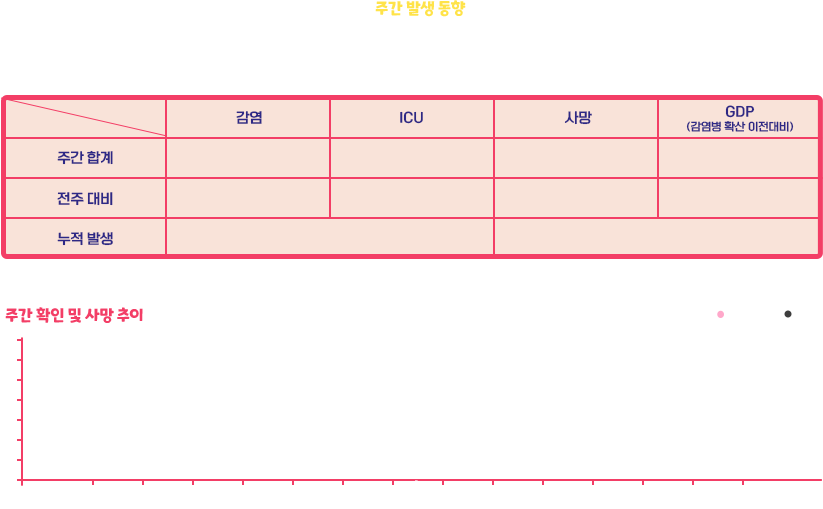
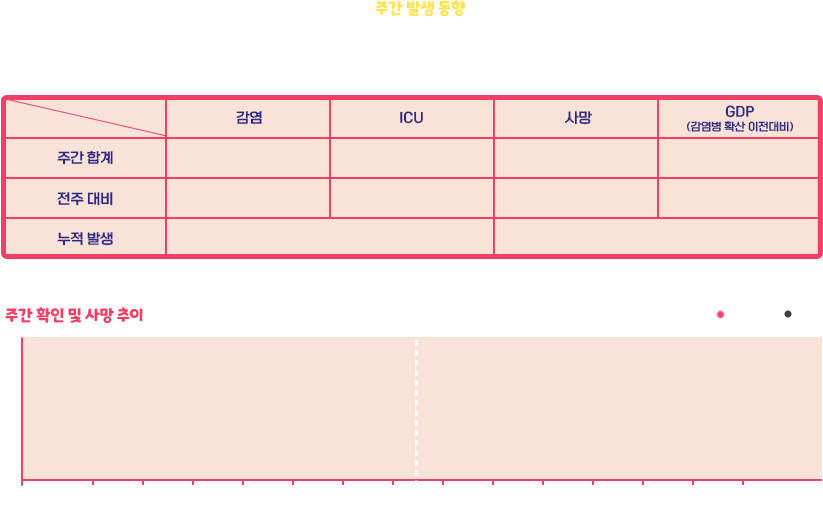
2022.02.23.03

Changed region(s): [[0.0, 0.6483, 1.0, 0.943]]

diff --git a/ko-kr-beta/covid_game.html b/ko-kr-beta/covid_game.html
@@ -1,5 +1,5 @@
 <!DOCTYPE html>
-<!--ver.2022.02.23.02-->
+<!--ver.2022.02.23.03-->
 <html lang="ko">
 <!--🥕-->
 <link rel="shortcut icon" href="favicon.ico">
@@ -105,8 +105,8 @@
                             <td class="weekly warning GDPs" data-value="0"></td>
                         </tr>
                     </table>
-                    <div class="weekly infectious"><output class="weekly infectious" age="90">0</output>명</div>
-                    <div class="weekly death"><output class="weekly death" age="90">0</output>명</div>
+                    <div class="weekly infectious">누적 확진자 <output class="weekly infectious" age="90">0</output>명</div>
+                    <div class="weekly death">누적 사망자 <output class="weekly death" age="90">0</output>명</div>
                 </div> <br>
                 <div class="weekly_chart">
                     <div class="weekly_board">
@@ -187,12 +187,12 @@
                         <input class="policy rate" type="range" max="0.90" min="0.5" step="0.2" value="0.5" onchange="toggle_week();">
                         <input class="policy bed" type="range" min="10" max="30" step="2" value="10" onchange="toggle_week();">
                         <svg class="weekly area lines">
-                            <line class="weekly border visible" x1="0" y1="122.5" x2="290" y2="122.5"/>
-                            <line class="weekly border visible" x1="145" y1="0" x2="145" y2="245"/>
-                            <line class="weekly border invisible left" data-click="0" x1="0" y1="122.5" x2="140" y2="122.5" onclick="this.dataset.click = (this.dataset.click === '0' ? '1' : '0'); toggle_week();"/>
-                            <line class="weekly border invisible right" data-click="0" x1="150" y1="122.5" x2="290" y2="122.5" onclick="this.dataset.click = (this.dataset.click === '0' ? '1' : '0'); toggle_week();"/>
-                            <line class="weekly border invisible upper" data-click="0" x1="145" y1="0" x2="145" y2="117.5" onclick="this.dataset.click = (this.dataset.click === '0' ? '1' : '0'); toggle_week();"/>
-                            <line class="weekly border invisible lower" data-click="0" x1="145" y1="127.5" x2="145" y2="245" onclick="this.dataset.click = (this.dataset.click === '0' ? '1' : '0'); toggle_week();"/>
+                            <line class="weekly border visible" x1="0" y1="125" x2="292" y2="125"/>
+                            <line class="weekly border visible" x1="146" y1="0" x2="146" y2="245"/>
+                            <line class="weekly border invisible left" data-click="0" x1="0" y1="123" x2="146" y2="123" onclick="this.dataset.click = (this.dataset.click === '0' ? '1' : '0'); toggle_week();"/>
+                            <line class="weekly border invisible right" data-click="0" x1="146" y1="123" x2="292" y2="123" onclick="this.dataset.click = (this.dataset.click === '0' ? '1' : '0'); toggle_week();"/>
+                            <line class="weekly border invisible upper" data-click="0" x1="149" y1="0" x2="149" y2="125" onclick="this.dataset.click = (this.dataset.click === '0' ? '1' : '0'); toggle_week();"/>
+                            <line class="weekly border invisible lower" data-click="0" x1="149" y1="125" x2="149" y2="248" onclick="this.dataset.click = (this.dataset.click === '0' ? '1' : '0'); toggle_week();"/>
                         </svg>
                         <div class="weekly area budget"><output class="weekly budget_next">0</output></div>
                     </div>

diff --git a/ko-kr-beta/css/style_game.css b/ko-kr-beta/css/style_game.css
@@ -645,6 +645,7 @@ div.weekly_status div.weekly.date {
 }
 
 div.weekly_status table {
+    color: #2e2886;
     position: absolute;
     text-align: center;
     top: 76px;
@@ -678,6 +679,7 @@ td.weekly.warning[data-value="2"] {
 }
 
 div.weekly_status p {
+    color: #2e2886;
     font-size: 100%;
     position: absolute;
     top: 140px;
@@ -691,11 +693,21 @@ div.weekly_board {
     height: 185px;
 }
 
-div.weekly_board > svg > g > g.xAxis, g.yAxis {
+div.weekly_board > svg > g > g.xAxis {
     visibility: hidden;
 }
+
+div.weekly_board > svg > g > g.yAxis text {
+    color: white;
+    font-family: ONEMobilePOPRegular, sans-serif;
+}
+
+div.weekly_board > svg > g > g.yAxis line {
+    color: #f33e66;
+}
+
 div.weekly.infectious {
-    color: black;
+    color: #2e2886;
     position: absolute;
     top: 164px;
     right: 420px;
@@ -703,7 +715,7 @@ div.weekly.infectious {
     text-align: center;
 }
 div.weekly.death {
-    color: black;
+    color: #2e2886;
     position: absolute;
     top: 164px;
     right: 90px;
@@ -731,6 +743,8 @@ div.policy.level.confirm input {
     height: 24px;
     background: none;
     text-align: center;
+    font-family: ONEMobilePOPRegular, sans-serif;
+    color: #2e2886;
     border: 1px solid rgba(0,0,0,0);
 }
 div.policy.level.confirm input:hover {
@@ -740,10 +754,10 @@ div.policy.level.confirm input:hover {
 div.area_policy, svg.area_policy.area_board {
     position: absolute;
     display: inline-block;
-    width: 294px;
-    height: 185px;
-    left: 640px;
-    top: 210px;
+    width: 293px;
+    height: 179px;
+    left: 641px;
+    top: 213px;
 }
 select.area_policy.option {
     font-size: 120%;
@@ -819,9 +833,8 @@ div.weekly.budget.update p {
 }
 svg.weekly.area.lines {
     position: absolute;
-    border: 1px solid white;
-    width: 290px;
-    height: 245px;
+    width: 294px;
+    height: 250px;
     left: 640px;
     top: 0;
     transform: translateY(-20px);

diff --git a/ko-kr-beta/main_game.js b/ko-kr-beta/main_game.js
@@ -898,7 +898,7 @@ function weekly_report() {
     } else if (weekly_change_death < 0) {
         $("#weekly_change_death").val("▼" + Math.abs(weekly_change_death)).css("color","blue");
     } else {
-        $("#weekly_change_death").val("▲" + weekly_change_death).css("color","black");
+        $("#weekly_change_death").val(weekly_change_death).css("color","#2e2886;");
     }
 
 
@@ -969,13 +969,13 @@ function weekly_report() {
     let board_svg = board.append("svg")
         .attr("width", "100%")
         .attr("height", "100%");
-    let board_svg_size = board_svg.node().getBoundingClientRect();
+    let board_svg_size = {'height': 185, 'width': 790};
 
     let data_stacked = d3.stack().keys(["I1","R2"])(daily_IR);
 
     let xScale = d3.scaleBand()
         .domain([1,2,3,4,5,6,7,8,9,10,11,12,13,14])
-        .range([30, board_svg_size.width - 290]).padding(0.7);
+        .range([30, board_svg_size.width - 25]).padding(0.7);
     let yScale = d3.scaleLinear()
         .domain([0, d3.max(d3.max(data_stacked), e => d3.max(e)) + 1])
         .range([board_svg_size.height - 50, 0]);
@@ -983,7 +983,7 @@ function weekly_report() {
     let yAxis = d3.axisLeft().scale(yScale);
     yAxis.ticks(5);
     board_svg = board_svg.append("g")
-        .attr("transform", "translate(40,-40)");
+        .attr("transform", "translate(40,20)");
 
     board_svg.append("g")
         .attr("transform", "translate(0," + (board_svg_size.height - 50) + ")")
@@ -999,7 +999,7 @@ function weekly_report() {
         .data(data_stacked)
         .enter()
         .append("g")
-        .attr("fill",function(d) {return state[d.key];})
+        .attr("fill",function(d) {return d.key === "I1" ? "#f33e66" : "#3d3d3d";})
         .attr("stroke","none")
         .selectAll("rect")
         .data(function(d) {return d;})
